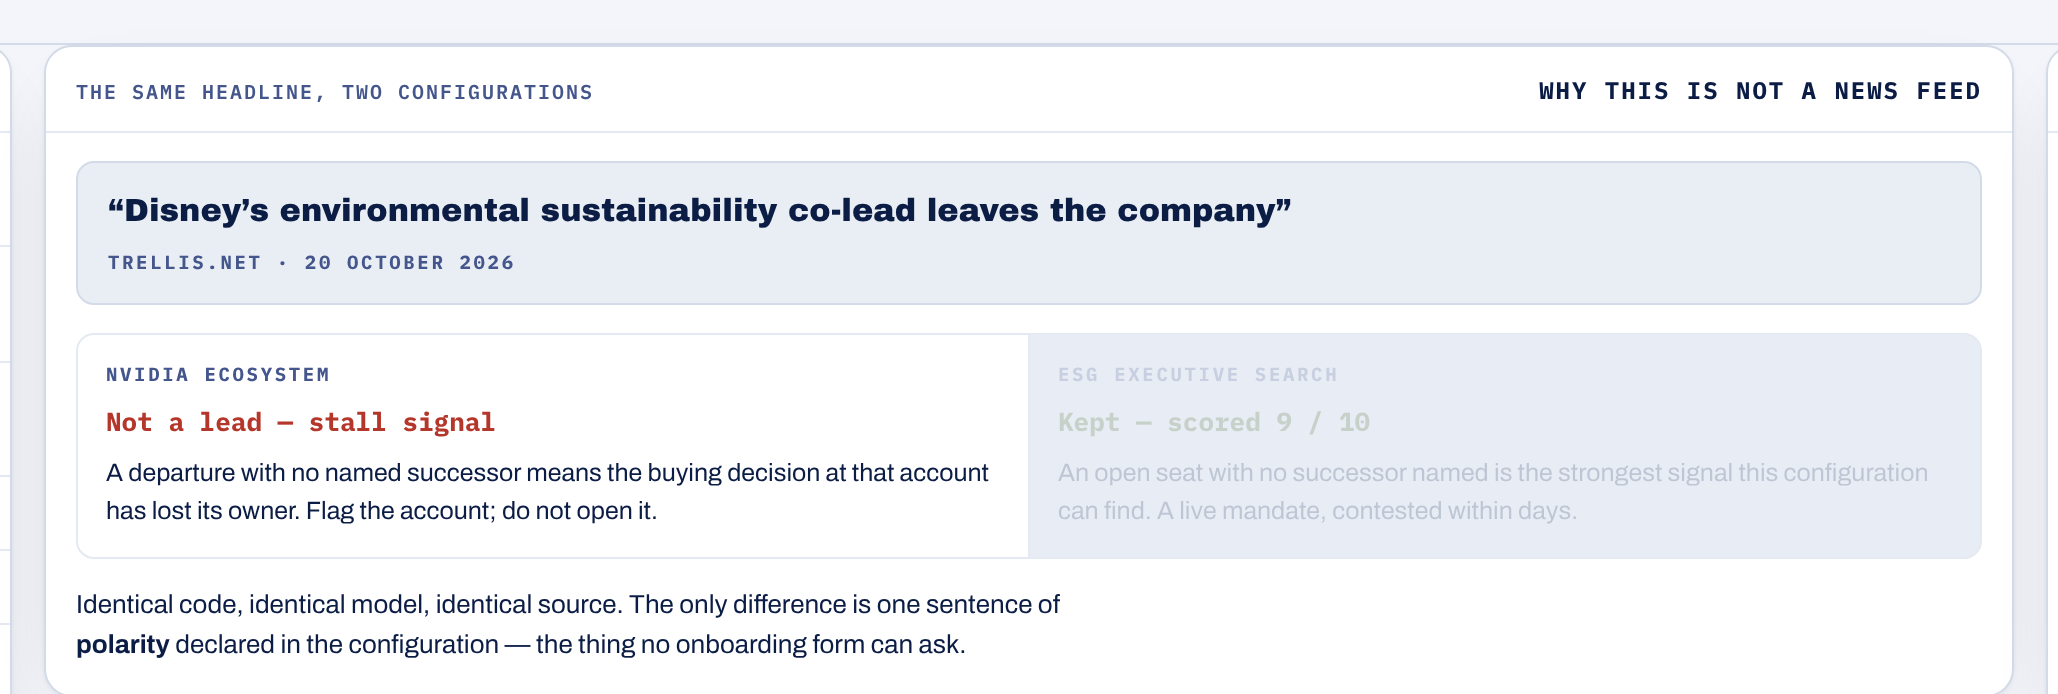
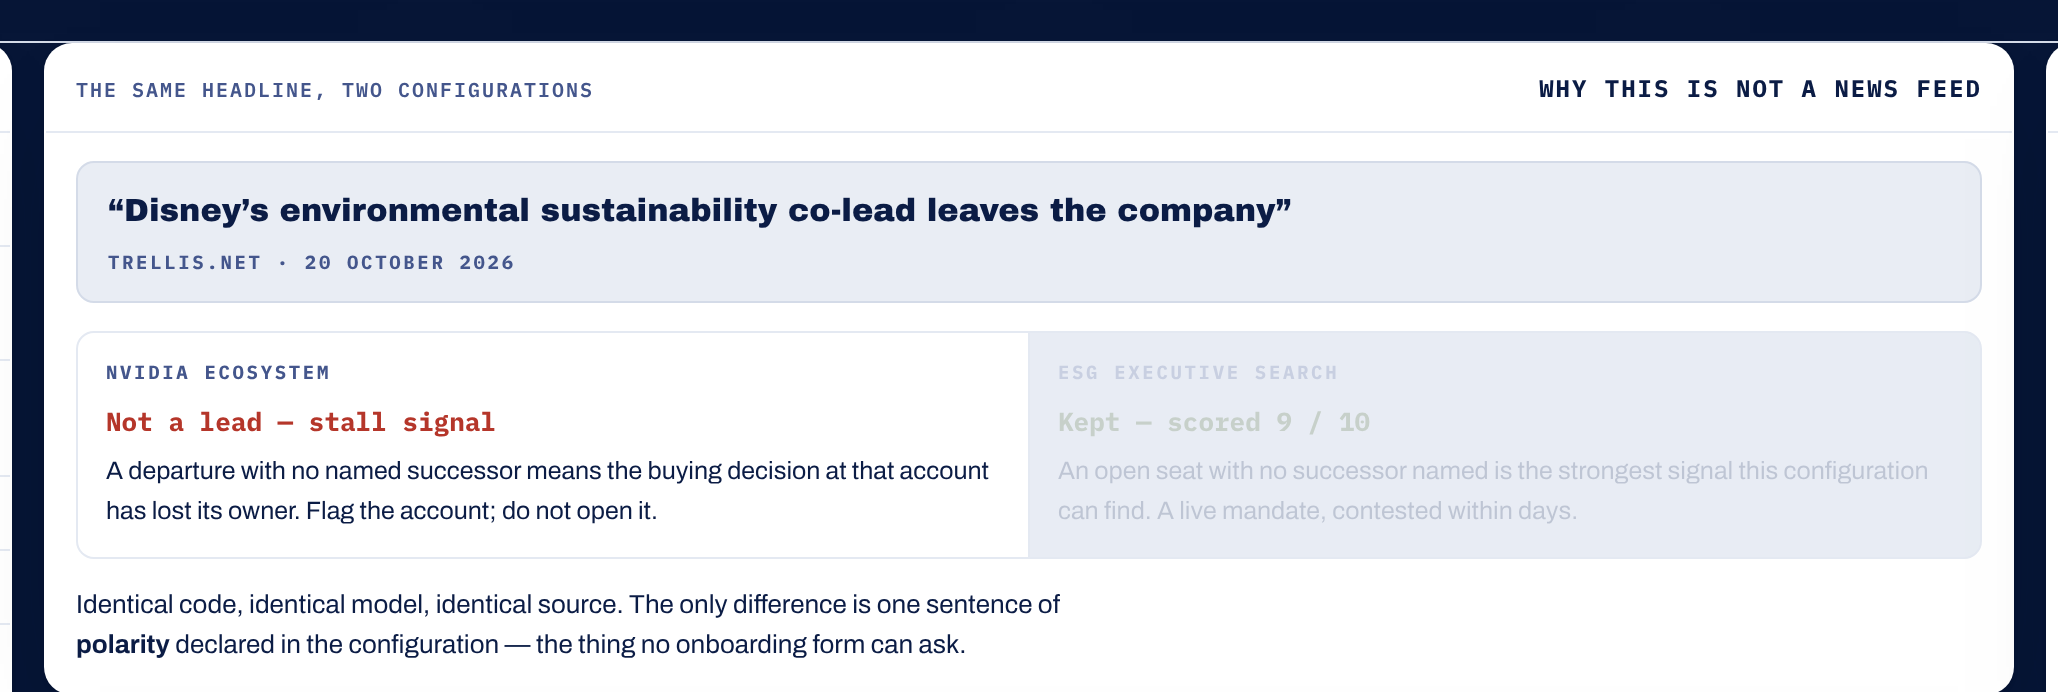
Put the interface on the navy ground, and give the film an ending
The dashboard and the film were two different products to look at. The film is
a white browser on a navy stage; the dashboard was light grey all the way down.
It is now the same division: the ground is navy, and everything that holds
content is paper. Chrome — the header, the demo strip, the space between
panels — belongs to the ground and carries white type with acid for the
wordmark and the small labels. The four cards stop being navy, because a navy
card on a navy page disappears, and the selected one takes the acid instead of
a gradient. Panels drop their hairline for a shadow, since a border against
navy reads as a seam.

All eight captures were re-shot against it, and their spotlight rectangles
re-measured, because every one of them was a picture of the old interface.

The film now ends rather than stopping. Every capture it showed returns at
once as a wall, pulls back and blurs, the wordmark comes up in acid over it,
and it closes on an acid card reading Thank you, Kerrie Vincent with the three
platforms underneath. It runs on its own clock after the audio, the same way
the brand flash runs on its own clock before it, so the recorded part two drops
in between the last word and the wall without re-timing anything.

The part-two script is rewritten around the two things it was thin on. Tavily
gets its own beat instead of half a sentence — it is the answer to the first
question a sceptic asks, which is how you know the thing is not inventing its
[…]

diff --git a/public/index.html b/public/index.html
@@ -20,8 +20,11 @@
      2. NOTHING IS LIGHT BLUE. The old cyan-to-blue gradient and the pale
         blue washes read as generic SaaS chrome and competed with the acid.
         Where a surface needs to separate, it separates in grey.
-     3. THE PAGE GROUND IS GREY, cards are white. Panels read by value and a
-        hairline rather than by a drawn border everywhere.
+     3. THE PAGE GROUND IS NAVY, every component on it is white or near-white.
+        The chrome — header, demo strip, the space between panels — belongs to
+        the ground and carries white type with acid for the brand and the
+        labels. The panels are the paper, and they are the only thing that is
+        light. It is the same stage the film uses: a white browser on navy.
      ══════════════════════════════════════════════════════════════════════ */
   :root {
     /* ── Navy is the ink. Deepest at the bottom of the ramp, where it is a
@@ -36,7 +39,8 @@
     /* ── Light grey is the structure: the ground the cards sit on, the fill
        inside a panel, and the hairlines. This is what breaks the interface
        up now that the blue washes are gone. ── */
-    --ground: #F3F5FA;
+    --ground: #071637;
+    --ground-2: #0B1C45;
     --card: #FFFFFF;
     --card-2: #E9EDF4;
     --card-3: #DFE5EF;
@@ -116,8 +120,8 @@
   /* ── Top bar ───────────────────────────────────────────────────────── */
   header {
     display: flex; align-items: center; gap: 10px 14px; flex-wrap: wrap;
-    padding: 11px var(--pad); background: var(--card);
-    border-bottom: 1px solid var(--line); position: sticky; top: 0; z-index: 30;
+    padding: 11px var(--pad); background: var(--ground);
+    border-bottom: 1px solid var(--navy-3); position: sticky; top: 0; z-index: 30;
   }
   /* The header carries a lot: identity, configuration, four views and two
      actions. Chrome goes before controls do. */
@@ -543,7 +547,7 @@
   /* ── Header ───────────────────────────────────────────────────────── */
   header {
     display: flex; align-items: center; gap: 14px; flex-wrap: wrap;
-    padding: 20px var(--pad); background: var(--card);
+    padding: 20px var(--pad); background: var(--ground);
     border-bottom: 1px solid var(--line);
   }
   header .brand { display: flex; align-items: baseline; gap: 12px; }
@@ -806,6 +810,73 @@
   .rejline { padding: 11px 26px; border-top: 1px solid var(--line-soft);
     font-size: 13px; font-weight: 500; color: var(--ink); background: var(--card-2); }
   .rejline b { font-weight: 700; }
+  /* ══ ON THE NAVY GROUND ═══════════════════════════════════════════════
+     Everything above this point styles a component. These rules style the
+     ground it sits on, and the handful of things that sit directly on it:
+     the header, the demo strip, the greeting and the gaps between panels.
+
+     The division is the same one the film uses — a white browser on a navy
+     stage. Anything that holds content is paper: white, with navy type.
+     Anything that is chrome belongs to the ground: navy, with white type
+     and acid for the brand and the small labels. Nothing in between.
+     ═════════════════════════════════════════════════════════════════════ */
+
+  header, .greet, .flow, .demo-note { background: var(--ground); }
+  header { border-bottom-color: rgba(255,255,255,.10); }
+
+  /* The wordmark is acid here, because here it is on navy. */
+  .brand h1 { color: var(--acid); }
+  .brand h1::after { background: var(--acid); }
+  .brand .tagline { color: rgba(255,255,255,.72); border-left-color: rgba(255,255,255,.18); }
+  header .cfgbox .lbl, .runhint { color: rgba(255,255,255,.62); }
+
+  /* The demo strip is chrome, so it loses its light-grey panel. */
+  .demo-note { border-bottom: 1px solid rgba(255,255,255,.10); }
+  .demo-note .s { color: rgba(255,255,255,.78); }
+  .demo-note .s b { color: #FFFFFF; }
+
+  /* The greeting is a line of voice-over, and reads like one. */
+  .greet .when { color: var(--acid); }
+  .greet h2 { color: #FFFFFF; }
+  .ground-badge { background: rgba(255,255,255,.08); border-color: rgba(255,255,255,.20); }
+  .ground-badge .t { color: var(--acid); }
+  .ground-badge .s { color: #FFFFFF; }
+
+  /* ── The four cards are paper now. On a navy page a navy card disappears,
+     and the selected one takes the acid instead of a gradient. ── */
+  .flow button {
+    background: var(--card); color: var(--ink); border-color: transparent;
+    box-shadow: 0 1px 2px rgba(3,10,28,.22), 0 18px 40px -26px rgba(3,10,28,.55);
+  }
+  .flow button .t { color: var(--ink); }
+  .flow button .s { color: var(--label); }
+  .flow button .n { background: var(--ground); color: var(--acid); }
+  .flow button[aria-selected="true"] {
+    background: var(--acid); border-color: var(--acid);
+  }
+  .flow button[aria-selected="true"] .t,
+  .flow button[aria-selected="true"] .s { color: var(--navy); }
+  .flow button[aria-selected="true"] .s { color: rgba(7,22,55,.78); }
+  .flow button[aria-selected="true"] .n { background: var(--navy); color: var(--acid); }
+
+  /* Buttons in the header are small components, so they stay light. */
+  header .btn { background: rgba(255,255,255,.08); color: #FFFFFF; border-color: rgba(255,255,255,.22); }
+  header .btn:hover, header .btn:focus-visible { background: rgba(255,255,255,.16); border-color: rgba(255,255,255,.4); }
+  header .btn .caret { color: rgba(255,255,255,.6); }
+  header .btn.primary { background: var(--acid); color: var(--navy); border-color: var(--acid); }
+  header .btn.primary:hover { background: #EEFF66; }
+  header .btn.dashed { border-style: dashed; }
+
+  /* Panels float on the ground, so they drop their hairline and take a shadow
+     instead — a border against navy reads as a seam. */
+  main .panel, main .card, main .box, .diag, .stats {
+    border-color: transparent;
+    box-shadow: 0 1px 2px rgba(3,10,28,.20), 0 20px 46px -28px rgba(3,10,28,.50);
+  }
+  .stats { background: var(--line-soft); }
+
+  :focus-visible { outline-color: var(--acid); }
+
 </style>
 
 <header>

diff --git a/SUBMISSION-VIDEO-SCRIPT.md b/SUBMISSION-VIDEO-SCRIPT.md
@@ -179,112 +179,107 @@ Record these in one pass with the dashboard already loaded, then cut to the VO.
 
 # Part two — the narration still to record
 
-The recording you have covers frames 1–49 and runs **1:39**. With the 1.4-second
-brand flash in front of it the film currently sits at **1:40**.
+**The file you sent is not part two.** It is the original, untrimmed part-one
+recording — the same take already in the film, with the 15.8 seconds of chat
+message still on the front. Three checks agree: 114.8 − 15.8 = 99.0, exactly the
+length of the audio in the cut; the loudness envelope of your file offset by
+15.8s correlates with the published narration at **1.0000**; and Whisper
+transcribes it as *"I've smoothed out the narration, tightened the
+transitions…"* followed by *"It's Monday morning…"*, ending on the same
+unfinished *"Netflix loses its first Chief Sustainability"*. Nothing to stitch.
 
-Kyla reads at **177 words a minute** — measured off the transcript, not guessed.
-The cap is 3:00. What follows is **193 words**, which lands at about **1:05**,
-and takes the finished film to roughly **2:49** including the pauses between
-beats. That is the whole of the rest of the film; nothing else is outstanding.
+**Budget.** The film is now 1:50 — a 1.4s brand flash, 1:39 of narration, and a
+9.4s close. The cap is 3:00. What follows is **201 words**, which at Kyla's measured 177 wpm lands at about **1:08** and takes the finished film to roughly **2:57**, leaving headroom for the pauses between beats. That is everything outstanding.
 
-**Two notes before you record it.**
-
-1. **The existing take cuts off mid-phrase.** The last thing Kyla says is
-   *"Netflix loses its first Chief Sustainability."* — the word *Officer* is
-   missing. Beat 1 below opens on that word so the join is clean. If you would
-   rather re-record the whole line, it is
-   *"Netflix loses its first Chief Sustainability Officer."*
-2. **She says "Ospius".** Spell it `Aw-SPEE-us` for the engine, or flag it on
-   the retake.
+**Record it in one take, starting on the word "Officer."** The existing take cuts
+off mid-phrase. If you would rather re-record that whole line it is *"Netflix
+loses its first Chief Sustainability Officer."* And spell the name `Aw-SPEE-us`
+for the engine — she currently says "Ospius".
 
 ---
 
-### Beat 1 · Finishing the Netflix line — 23 words
+### Beat 1 · Finish the line, and land the score — 23 words
 
 > Officer. No successor named. Scored eighty out of a hundred. Critical.
 >
 > Then it does something most tools won't do. It argues against itself.
 
-**On screen:** `07-netflix-signal.png`, spotlight moving from the lead paragraph
-to the score. Hold on the word *Critical*.
+**On screen:** `07-netflix-signal.png`, spotlight on the lead, then the score.
 
 ---
 
-### Beat 2 · The counter-reading — 21 words
+### Beat 2 · What a counter-reading is, in plain words — 34 words
 
-> Netflix has its own recruiting team. They may never go to market. It tells you
-> that before you waste the call.
+> Netflix has its own recruiting team, so they may never go to market. Auspius
+> says so on the same card. It would rather talk you out of a bad call than win
+> the click.
 
-**On screen:** a signal card with the counter-reading open, spotlight on the
-counter-reading itself. **This is the shot I still need from you** if you want it
-to be a different signal from the Netflix one — otherwise I will cut it from the
-briefing capture I already have.
-
----
-
-### Beat 3 · Nemotron and Token Factory ★ — 38 words
-
-> Twelve agents produced that briefing. NVIDIA Nemotron, running on Nebius Token
-> Factory. Super does the fast reading. Ultra does the judging, and writes the
-> briefing you just read. Tavily fetches the sources, so every claim carries a link.
-
-**On screen, in this order:**
-- `08-agent-activity.png` — the ULTRA / SUPER / FREE tiers, spotlight on the rail.
-  **Already captured and uploaded.**
-- `nebius-console.png` — **yours to grab.** Lands on "Nebius Token Factory".
-- `tavily-dashboard.png` — **yours to grab.** Lands on "Tavily fetches the sources".
-
-★ Required by the rules. Do not cut this beat, and do not cut the audio — two of
-the four judging criteria turn on it and the spoken words count.
+**On screen:** the counter-reading, spotlit. *This is the beat that explains the
+product to someone who has never seen it — the thing it does that a news alert
+cannot. Worth the extra seconds.*
 
 ---
 
-### Beat 4 · The score is arithmetic, not an opinion — 34 words
+### Beat 3 · Where the facts come from ★ — 38 words
 
-> The score isn't a model's opinion. Four factors, added up in code. Take any
-> number apart and see where it came from. And it keeps what it threw away —
-> every rejection, with its reason.
+> None of this is the model remembering things. Every week, Tavily searches the
+> live web and brings back the actual pages — filings, postings, press
+> releases. Auspius reads only those. A claim with no source is thrown away.
 
-**On screen:** `06-why-this-scored.png`, spotlight walking the four factors and
-landing on the 80. Then the "Rejected, and why" panel. I have the first; say the
-word and I will capture the rejections panel too.
-
----
-
-### Beat 5 · It isn't one industry — 42 words
-
-> And this isn't one industry. Seven sectors. Executive search. Law. Policy.
-> Hospitality. AI infrastructure. Two hundred and forty-seven organisations nobody
-> handed it — it found them all itself. Same code every time. The only thing that
-> changes is one file describing your business.
-
-**On screen:** `01-sector-chooser.png` with the spotlight released — all seven
-cards up, then the counts.
-
-**The 247 is checked.** It is the sum of the `organisations` figure across the
-seven profiles in `public/demo-data.json`: 150 + 17 + 11 + 13 + 33 + 20 + 3. It is
-the same number the sector chooser prints as "prospects found", so the screen and
-the voice agree.
+**On screen:** `tavily-dashboard.png` — **yours to grab** — then the grounding
+badge (*"18 signals · every claim source-checked"*) and the "Rejected, and why"
+panel showing an `UNGROUNDED` row. *You asked for more Tavily: this is now its
+own beat rather than half a sentence, and it is the answer to the first question
+a sceptical judge asks — how do you know it isn't making this up.*
 
 ---
 
-### Beat 6 · Add your own business — 19 words
+### Beat 4 · The models ★ — 30 words
 
-> And if your sector isn't there, point it at a company website. It configures
-> itself in about two minutes.
+> Twelve agents did the work. NVIDIA Nemotron, running on Nebius Token Factory.
+> Super does the fast reading. Ultra does the judging, and wrote the briefing
+> you saw a moment ago.
 
-**On screen:** `+ Add a business`, a URL pasted, the build log ticking. Cut before
-it finishes. **Yours to screen-record** — it needs a live run with API keys.
+**On screen:** `08-agent-activity.png` (already captured — the ULTRA / SUPER /
+FREE rail), then `nebius-console.png` — **yours to grab**.
+
+★ Two of the four judging criteria turn on this beat. Do not cut it.
 
 ---
 
-### Beat 7 · Close — 16 words
+### Beat 5 · The score is arithmetic — 28 words
 
-> Auspius. Verified signal intelligence. Your pipeline knows who you've met. This
-> tells you who you haven't.
+> And the score is not an opinion. Four factors, added up in code. Open any
+> number and see where it came from. Nothing here is a black box.
 
-**On screen:** acid frame, navy type, the wordmark with the dot. Then the repo and
-demo URLs, and `NVIDIA Nemotron · Nebius Token Factory · Tavily` small underneath.
+**On screen:** `06-why-this-scored.png`, spotlight walking the factors to the 80.
+
+---
+
+### Beat 6 · It isn't one industry — 31 words
+
+> This isn't one industry. Seven sectors — executive search, law, policy,
+> hospitality, AI infrastructure. Two hundred and forty-seven organisations
+> nobody handed it. Same code every time; one file describes your business.
+
+**On screen:** `01-sector-chooser.png`, spotlight released, all seven cards.
+
+**The 247 is checked** against `public/demo-data.json`: 150 + 17 + 11 + 13 + 33
++ 20 + 3, the same figure the chooser prints as "prospects found".
+
+---
+
+### Beat 7 · Close — 17 words
+
+> Auspius. Verified signal intelligence. Your pipeline knows who you have met.
+> This tells you who you haven't.
+
+**On screen:** the close is already built and plays at the end of the board —
+every capture the film showed returns at once as a wall, pulls back and blurs,
+the wordmark comes up in acid over it, and it ends on an acid card reading
+**Thank you — Kerrie Vincent** with `NVIDIA Nemotron · Nebius Token Factory ·
+Tavily` underneath. 9.4 seconds. Leave two seconds of silence after the last
+word so the wall lands on its own.
 
 ---
 
@@ -292,8 +287,12 @@ demo URLs, and `NVIDIA Nemotron · Nebius Token Factory · Tavily` small underne
 
 | # | Shot | Why I can't take it |
 |---|------|---------------------|
-| 1 | `nebius-console.png` | Signed-in third-party console. This session has no browser control and the network policy blocks `nebius.com` outright. |
-| 2 | `tavily-dashboard.png` | Same — signed in, and `tavily.com` is blocked here too. |
-| 3 | The `+ Add a business` live build log | Needs a real run with `NEBIUS_API_KEY` and `TAVILY_API_KEY` set. |
+| 1 | `nebius-console.png` | Signed-in console, and the network policy here blocks `nebius.com`. |
+| 2 | `tavily-dashboard.png` | Same — `tavily.com` is blocked from this container. |
+| 3 | The `+ Add a business` live build log | Needs a real run with `NEBIUS_API_KEY` and `TAVILY_API_KEY`. |
+| 4 | The part-two recording | 201 words above. |
 
-Send those three and the recorded Part Two audio, and the cut is finished.
+**If you want me to time it exactly like part one:** Whisper now runs in this
+container (sherpa-onnx + Whisper base.en, pulled from GitHub since HuggingFace is
+blocked), so send the audio and I can cut frames to it. Your own `scribelab`
+environment is on your machine, which this cloud session cannot reach.
